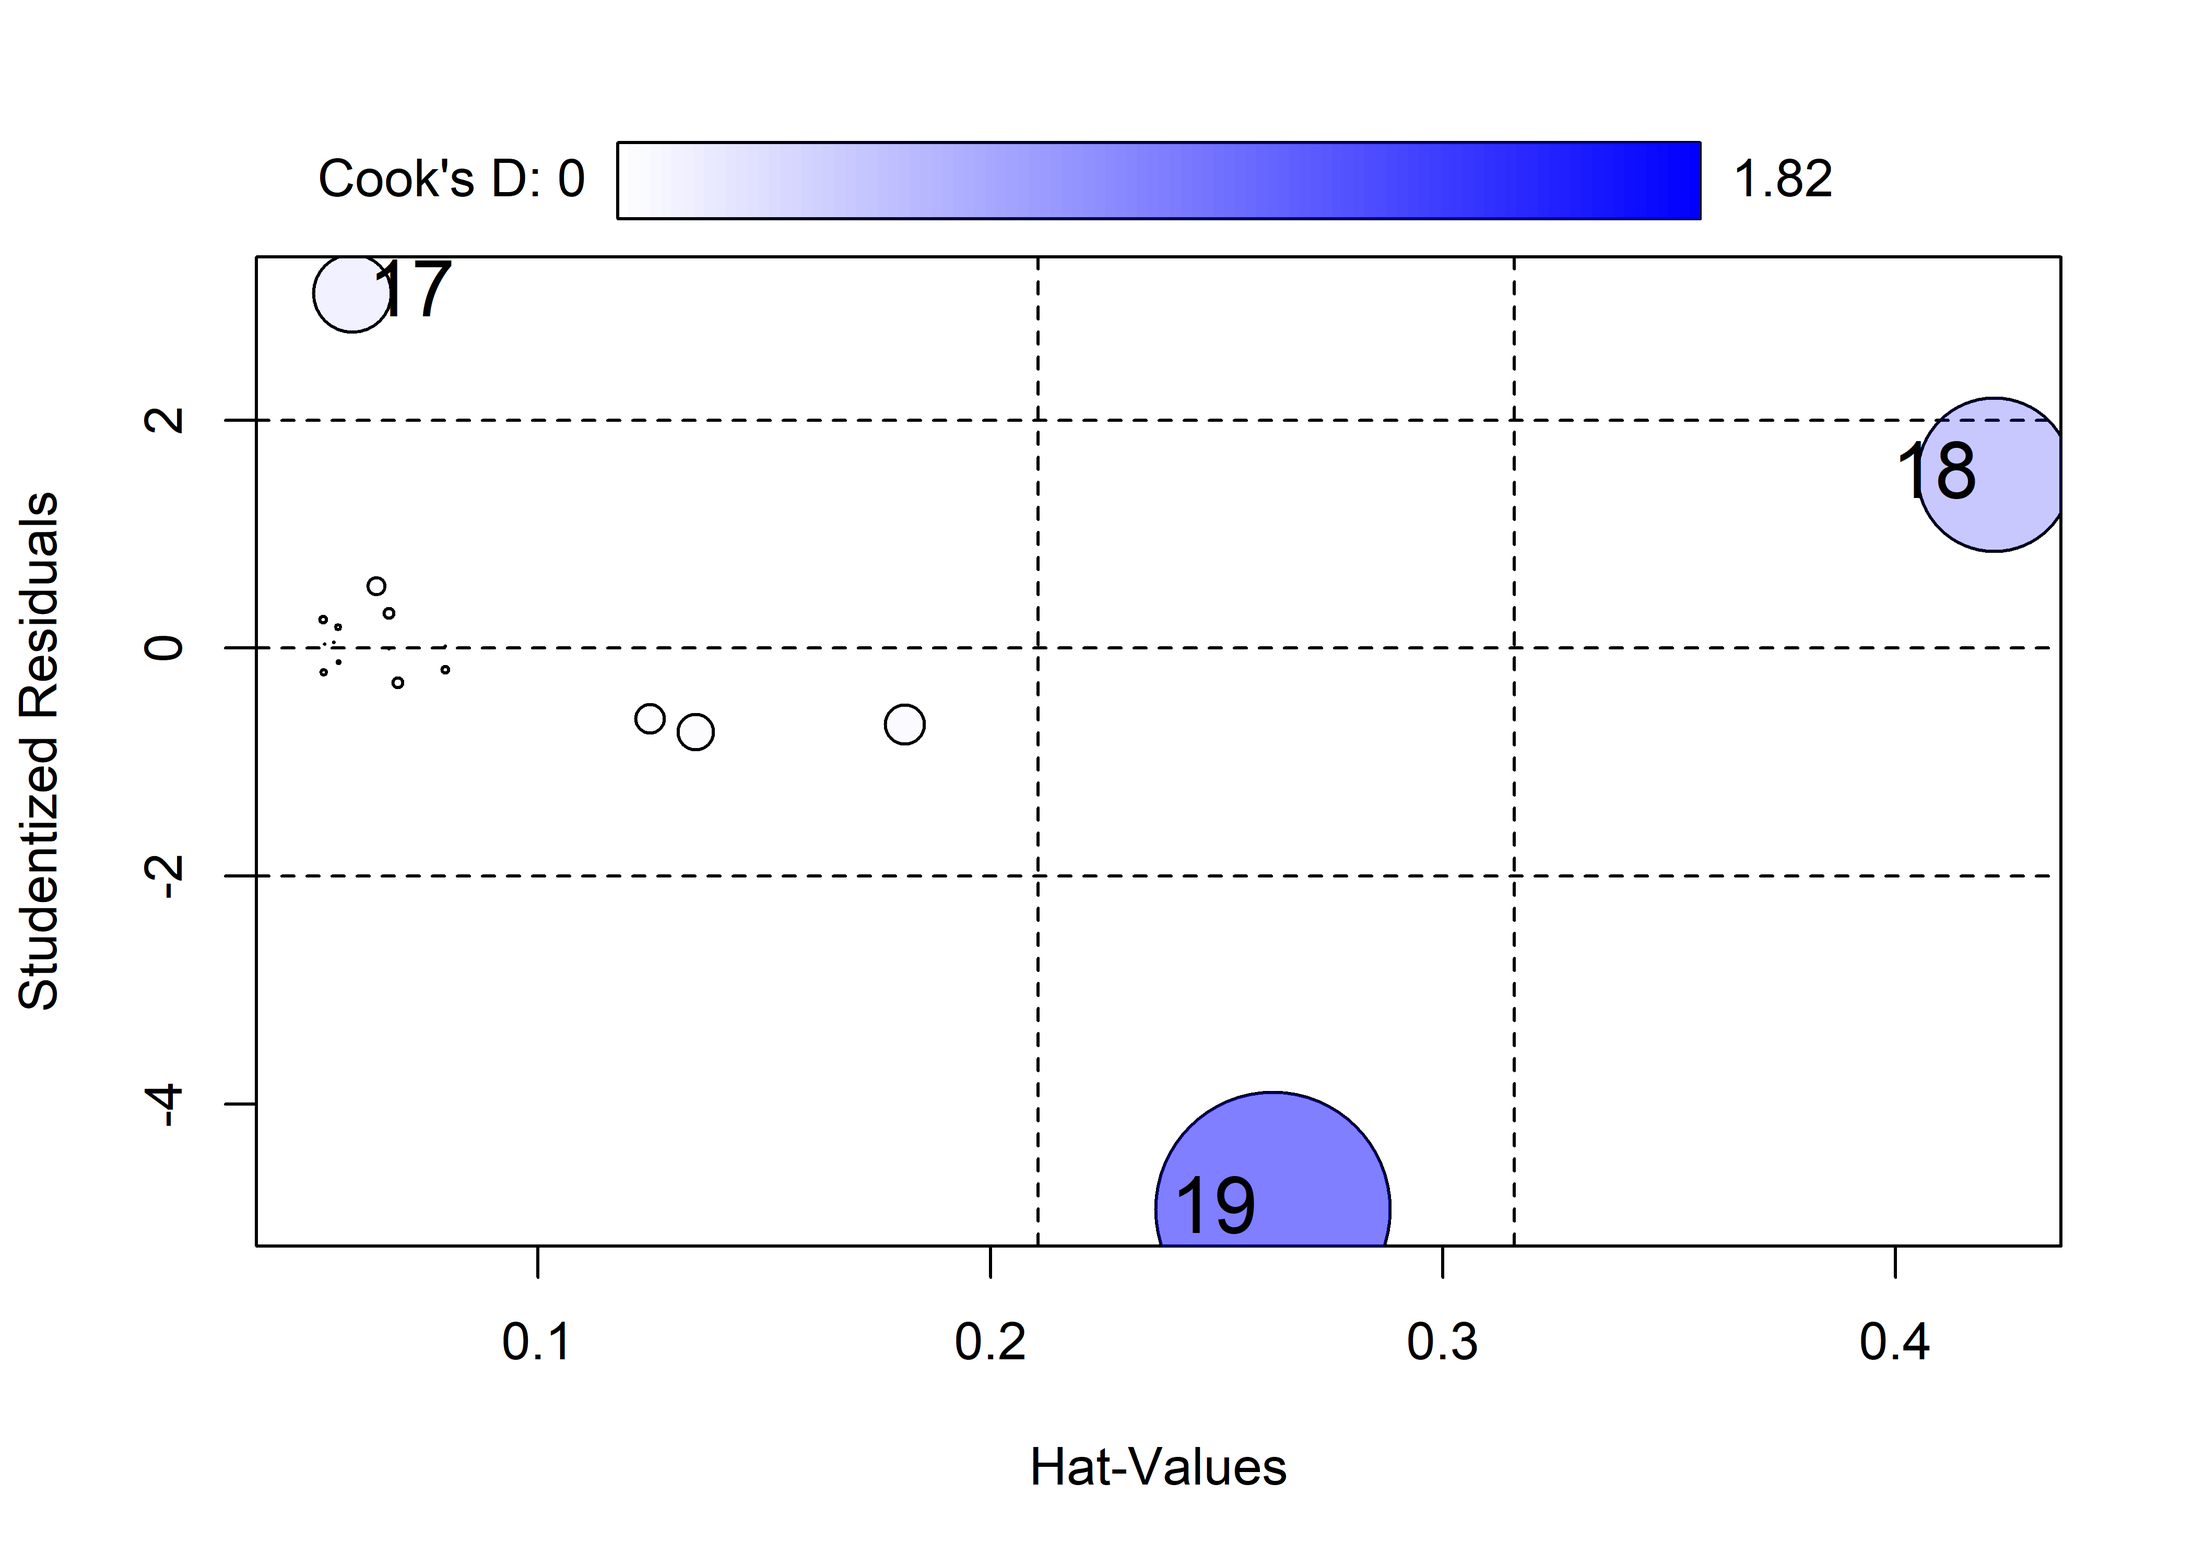
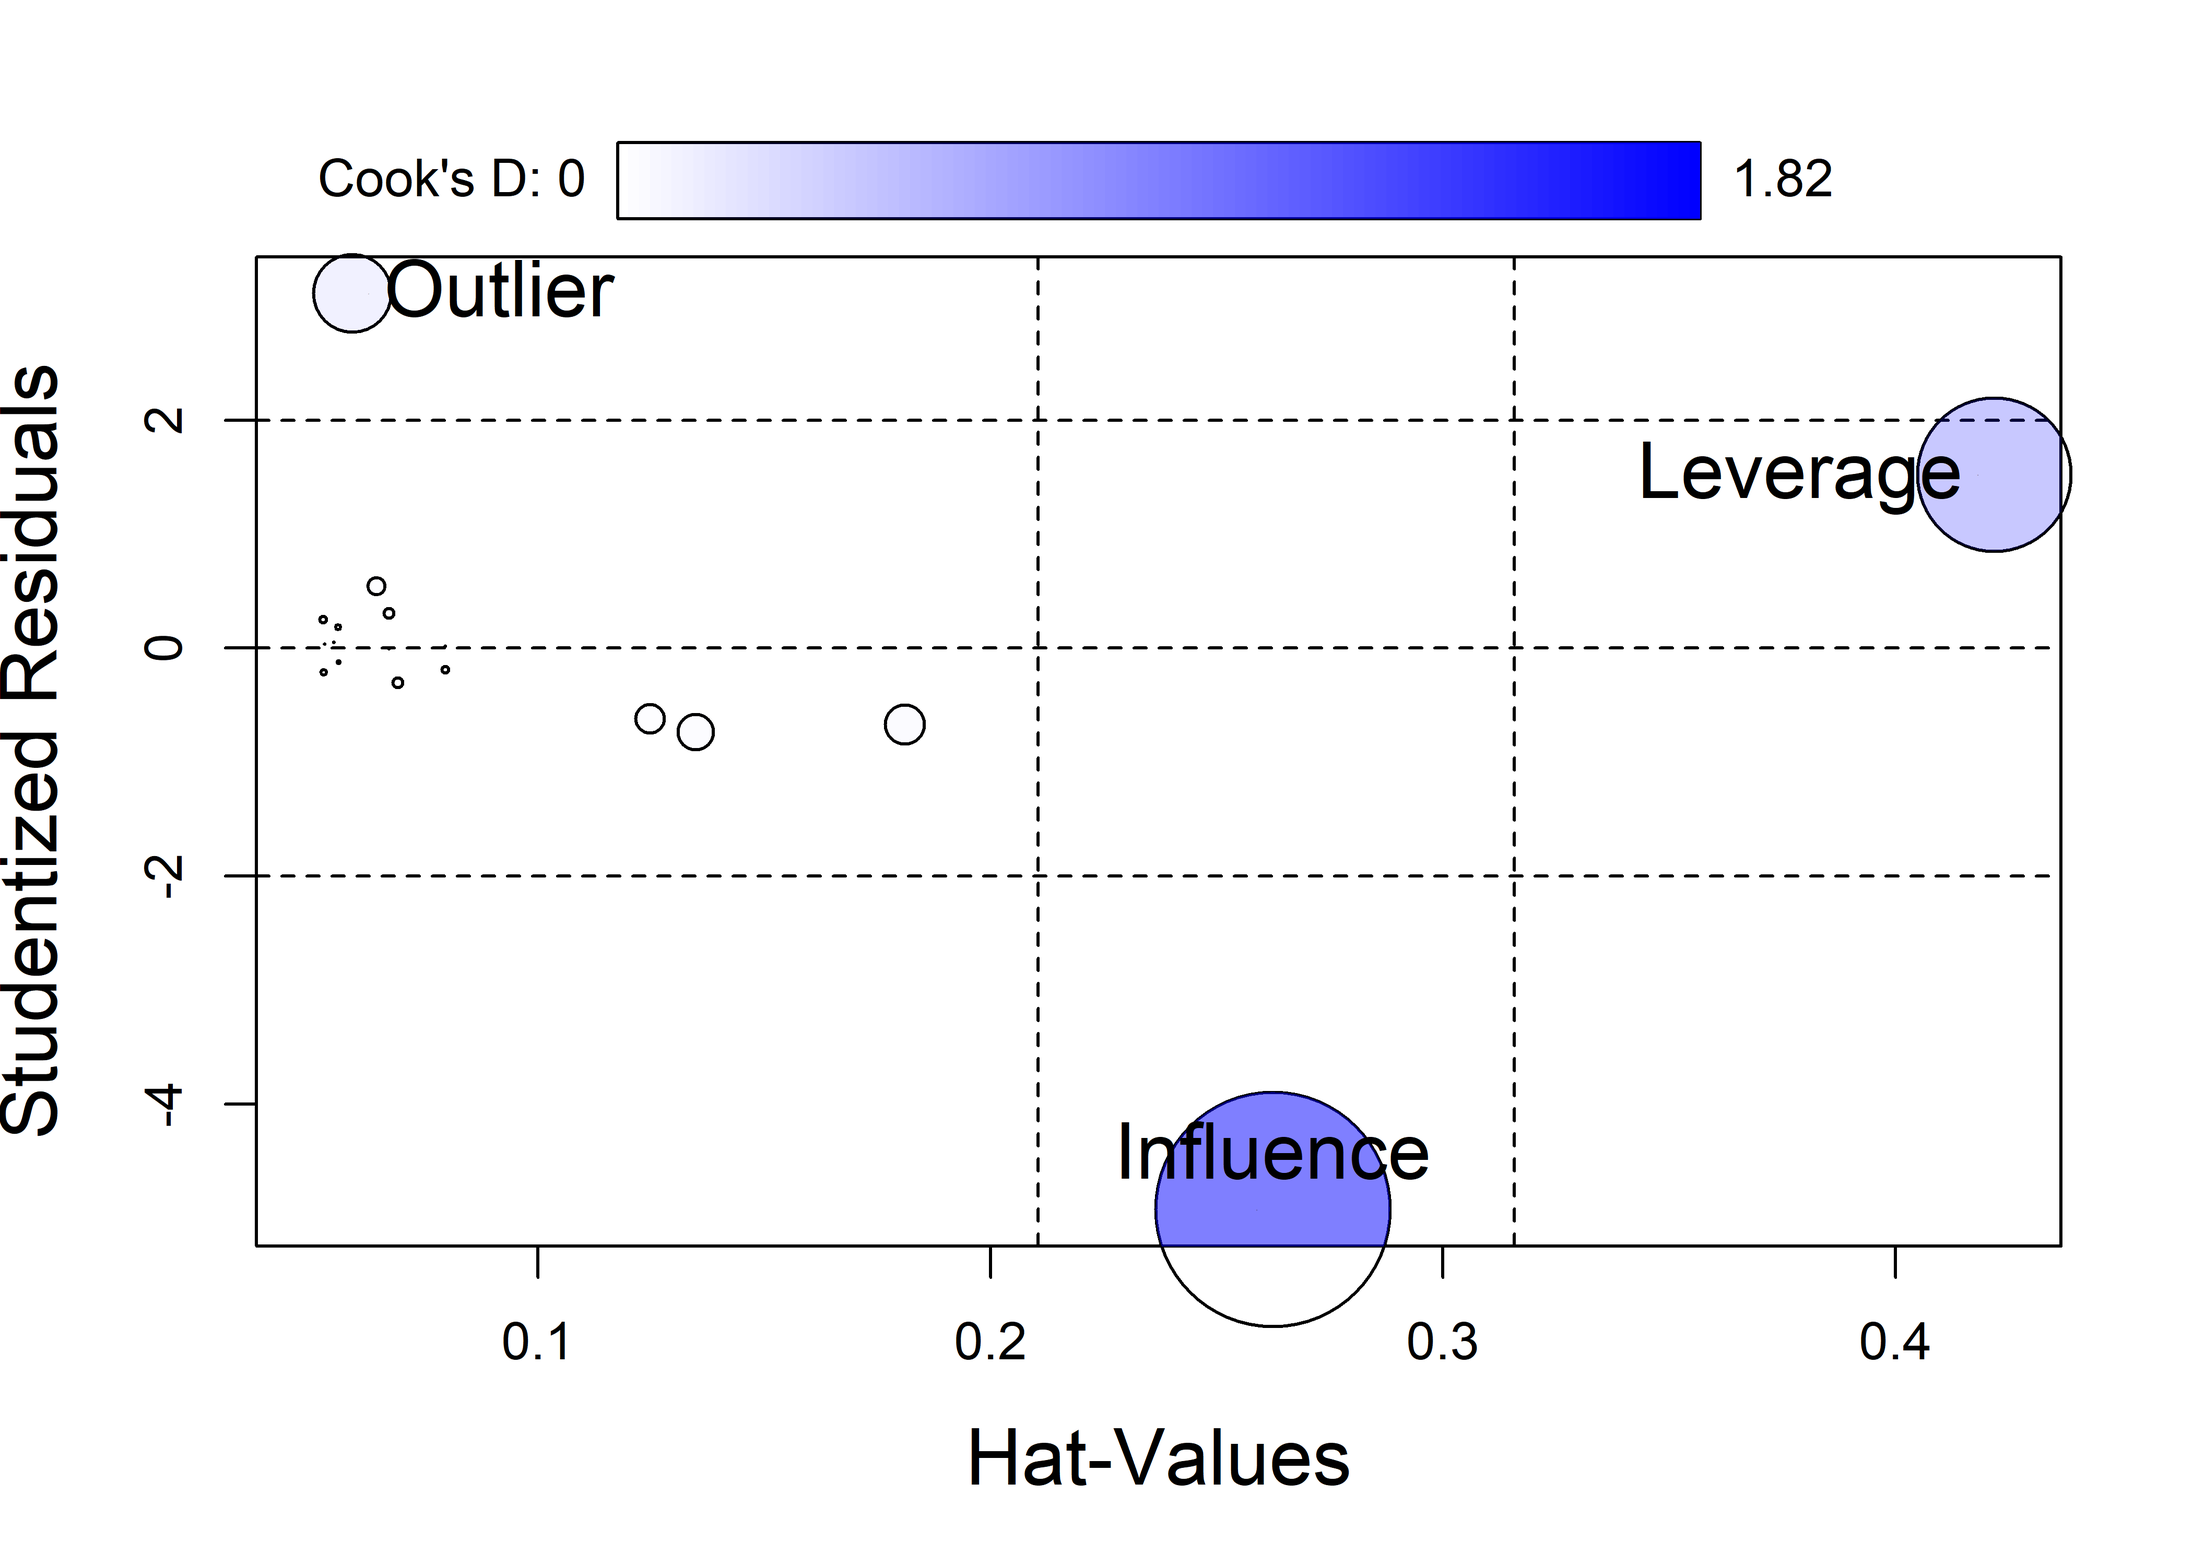
Leverage, influence: ch06

diff --git a/docs/06-linear_models-plots.html b/docs/06-linear_models-plots.html
@@ -329,7 +329,7 @@ window.Quarto = {
   <li>
 <a href="#sec-leverage" id="toc-sec-leverage" class="nav-link" data-scroll-target="#sec-leverage"><span class="header-section-number">6.6</span> Outliers, leverage and influence</a>
   <ul class="collapse">
-<li><a href="#sec:lev-inf-quartet" id="toc-sec:lev-inf-quartet" class="nav-link" data-scroll-target="#sec\:lev-inf-quartet"><span class="header-section-number">6.6.1</span> The leverage-influence quartet</a></li>
+<li><a href="#sec-lev-inf-quartet" id="toc-sec-lev-inf-quartet" class="nav-link" data-scroll-target="#sec-lev-inf-quartet"><span class="header-section-number">6.6.1</span> The leverage-influence quartet</a></li>
   <li><a href="#measuring-leverage" id="toc-measuring-leverage" class="nav-link" data-scroll-target="#measuring-leverage"><span class="header-section-number">6.6.2</span> Measuring leverage</a></li>
   <li><a href="#outliers-measuring-residuals" id="toc-outliers-measuring-residuals" class="nav-link" data-scroll-target="#outliers-measuring-residuals"><span class="header-section-number">6.6.3</span> Outliers: Measuring residuals</a></li>
   <li><a href="#measuring-influence" id="toc-measuring-influence" class="nav-link" data-scroll-target="#measuring-influence"><span class="header-section-number">6.6.4</span> Measuring influence</a></li>
@@ -1790,7 +1790,7 @@ Figure&nbsp;6.20: Predictor effect plot for income, plotted on a log scale.
 <p><span class="math display">\[
 \text{Influence}_{\text{coefficients}} \;=\; X_\text{leverage} \;\times\; Y_\text{residual}
 \]</span> As described below, leverage is proportional to the squared distance <span class="math inline">\((x_i - \bar{x})^2\)</span> of an observation <span class="math inline">\(x_i\)</span> from its mean in simple regression and to the squared Mahalanobis distance in the general case. The <span class="math inline">\(Y_\text{residual}\)</span> is best measured by a <em>studentized</em> residual, obtained by omitting each case <span class="math inline">\(i\)</span> in turn and calculating its residual from the coefficients obtained from the remaining cases.</p>
-<section id="sec:lev-inf-quartet" class="level3" data-number="6.6.1"><h3 data-number="6.6.1" class="anchored" data-anchor-id="sec:lev-inf-quartet">
+<section id="sec-lev-inf-quartet" class="level3" data-number="6.6.1"><h3 data-number="6.6.1" class="anchored" data-anchor-id="sec-lev-inf-quartet">
 <span class="header-section-number">6.6.1</span> The leverage-influence quartet</h3>
 <p>These ideas can be illustrated in the “leverage-influence quartet” by considering a standard simple linear regression for a sample and then adding one additional point reflecting the three situations described above. Below, I generate a sample of <span class="math inline">\(N = 15\)</span> points with <span class="math inline">\(x\)</span> uniformly distributed between (40, 60) and <span class="math inline">\(y \sim 10 + 0.75 x + \mathcal{N}(0, 1.25^2)\)</span>, duplicated four times.</p>
 <div class="cell" data-layout-align="center">
@@ -2001,17 +2001,37 @@ In practice for classical linear models, it is unnecessary to actually re-fit th
    &amp; = &amp; e^\star_{(-i)} \times \sqrt{\frac{h_i}{1-h_i}} \;\; .
 \end{eqnarray*}\]</span></p>
 <p>The first equation gives the signed difference in fitted values in units of the standard deviation of that difference weighted by leverage; the second version <span class="citation" data-cites="Belsley-etal:80">(<a href="90-references.html#ref-Belsley-etal:80" role="doc-biblioref">Belsley et al., 1980</a>)</span> represents that as a product of residual and leverage. A rule of thumb is that an observation is deemed to be influential if <span class="math inline">\(| \text{DFFITS}_i | &gt; 2 \sqrt{(p+1) / n}\)</span>.</p>
-<p>Influence can also be assessed in terms of the change in the estimated coefficients <span class="math inline">\(\mathbf{b} = \widehat{\mathbf{\beta}}\)</span> versus their values <span class="math inline">\(\mathbf{b}_{(-i)}\)</span> when case <span class="math inline">\(i\)</span> is removed. Cook’s distance, <span class="math inline">\(D_i\)</span>, summarizes the size of the difference as a weighted sum of squares of <span class="math inline">\(\mathbf{b} - \mathbf{b}_{(-i)}\)</span> <span class="citation" data-cites="Cook:77">(<a href="90-references.html#ref-Cook:77" role="doc-biblioref">Cook, 1977</a>)</span>.</p>
+<p>Influence can also be assessed in terms of the change in the estimated coefficients <span class="math inline">\(\mathbf{b} = \widehat{\mathbf{\beta}}\)</span> versus their values <span class="math inline">\(\mathbf{b}_{(-i)}\)</span> when case <span class="math inline">\(i\)</span> is removed. Cook’s distance, <span class="math inline">\(D_i\)</span>, summarizes the size of the difference as a weighted sum of squares of <span class="math inline">\(\mathbf{d} =\mathbf{b} - \mathbf{b}_{(-i)}\)</span> <span class="citation" data-cites="Cook:77">(<a href="90-references.html#ref-Cook:77" role="doc-biblioref">Cook, 1977</a>)</span>.</p>
+<p><span class="math display">\[
+D_i = \mathbf{d}^\mathsf{T}\, (\mathbf{X}^\mathsf{T}\mathbf{X}) \,\mathbf{d} / (p+1) \hat{\sigma}^2
+\]</span> This can be re-expressed in terms of the components of residual and leverage</p>
+<p><span class="math display">\[
+D_i = \frac{e^\star_{(-i)}}{p+1} \times \frac{h_i}{(1- h_i)^2}
+\]</span></p>
+<p>Cook’s distance is in the metric of an <span class="math inline">\(F\)</span> distribution with $p% and <span class="math inline">\(n − p\)</span> degrees of freedom, so values $D_i &gt; 4/n are considered large.</p>
 </section><section id="influence-plots" class="level3" data-number="6.6.5"><h3 data-number="6.6.5" class="anchored" data-anchor-id="influence-plots">
 <span class="header-section-number">6.6.5</span> Influence plots</h3>
-<p>Two kinds of plots are used to … * index plot of Cook’s D * influencePlot</p>
-<p>Back to the example of <span class="citation" data-cites="sec:lev-inf-quartet">(<a href="90-references.html#ref-sec:lev-inf-quartet" role="doc-biblioref"><strong>sec:lev-inf-quartet?</strong></a>)</span>:</p>
+<p>The most common plot to detect influence is a plot of the studentized residuals versus hat values, as shown in <a href="#fig-levdemo-infl" class="quarto-xref">Figure&nbsp;<span>6.25</span></a> for the demonstration dataset constructed in <a href="#sec-lev-inf-quartet" class="quarto-xref"><span>Section 6.6.1</span></a>. In this plot, notable cutoffs for hatvalues at <span class="math inline">\(2 \bar{h}\)</span> and <span class="math inline">\(3 \bar{h}\)</span> are shown by dashed vertical lines and horizontal cutoffs for studentize residuals are shown at values of <span class="math inline">\(\pm 2\)</span>.</p>
+<p>The demonstration data of <a href="#sec-lev-inf-quartet" class="quarto-xref"><span>Section 6.6.1</span></a> has four copies of the same <span class="math inline">\((x, y)\)</span> data, three of which have an unusual observation. The influence plot in <a href="#fig-levdemo-infl" class="quarto-xref">Figure&nbsp;<span>6.25</span></a> for the unique observations, including the three unusual cases.</p>
 <div class="cell" data-layout-align="center">
 <div class="sourceCode" id="cb54" data-source-line-numbers="nil" data-code-line-numbers="nil"><pre class="downlit sourceCode r code-with-copy"><code class="sourceCode R"><span><span class="va">once</span> <span class="op">&lt;-</span> <span class="va">both</span><span class="op">[</span><span class="fu"><a href="https://rdrr.io/r/base/c.html">c</a></span><span class="op">(</span><span class="fl">1</span><span class="op">:</span><span class="fl">16</span>, <span class="fl">62</span>, <span class="fl">63</span>, <span class="fl">64</span><span class="op">)</span>,<span class="op">]</span></span>
 <span><span class="va">once.mod</span> <span class="op">&lt;-</span> <span class="fu"><a href="https://rdrr.io/r/stats/lm.html">lm</a></span><span class="op">(</span><span class="va">y</span> <span class="op">~</span> <span class="va">x</span>, data<span class="op">=</span><span class="va">once</span><span class="op">)</span></span>
-<span><span class="va">res</span> <span class="op">&lt;-</span> <span class="fu"><a href="https://rdrr.io/pkg/car/man/influencePlot.html">influencePlot</a></span><span class="op">(</span><span class="va">once.mod</span>, </span>
-<span>                     id <span class="op">=</span> <span class="fu"><a href="https://rdrr.io/r/base/list.html">list</a></span><span class="op">(</span>cex <span class="op">=</span> <span class="fl">1.5</span><span class="op">)</span>,</span>
-<span>                     fill.alpha <span class="op">=</span> <span class="fl">0.5</span><span class="op">)</span></span></code><button title="Copy to Clipboard" class="code-copy-button"><i class="bi"></i></button></pre></div>
+<span><span class="va">inf</span> <span class="op">&lt;-</span> <span class="fu"><a href="https://rdrr.io/pkg/car/man/influencePlot.html">influencePlot</a></span><span class="op">(</span><span class="va">once.mod</span>, </span>
+<span>                     id <span class="op">=</span> <span class="fu"><a href="https://rdrr.io/r/base/list.html">list</a></span><span class="op">(</span>cex <span class="op">=</span> <span class="fl">0.01</span><span class="op">)</span>,</span>
+<span>                     fill.alpha <span class="op">=</span> <span class="fl">0.5</span>,</span>
+<span>                     cex.lab <span class="op">=</span> <span class="fl">1.5</span>, xpd <span class="op">=</span> <span class="cn">TRUE</span><span class="op">)</span></span>
+<span><span class="co"># custom labels</span></span>
+<span><span class="va">unusual</span> <span class="op">&lt;-</span> <span class="fu"><a href="https://dplyr.tidyverse.org/reference/bind_cols.html">bind_cols</a></span><span class="op">(</span><span class="va">once</span><span class="op">[</span><span class="fl">17</span><span class="op">:</span><span class="fl">19</span>,<span class="op">]</span>, <span class="va">inf</span><span class="op">)</span> <span class="op">|&gt;</span> <span class="fu"><a href="https://rdrr.io/r/base/print.html">print</a></span><span class="op">(</span>digits<span class="op">=</span><span class="fl">3</span><span class="op">)</span></span>
+<span><span class="co">#&gt; # A tibble: 3 × 7</span></span>
+<span><span class="co">#&gt;   case            x     y id    StudRes    Hat CookD</span></span>
+<span><span class="co">#&gt; * &lt;fct&gt;       &lt;dbl&gt; &lt;dbl&gt; &lt;chr&gt;   &lt;dbl&gt;  &lt;dbl&gt; &lt;dbl&gt;</span></span>
+<span><span class="co">#&gt; 1 2 Outlier      52    65 O        3.11 0.0591 0.201</span></span>
+<span><span class="co">#&gt; 2 3 Leverage     75    65 L        1.52 0.422  0.784</span></span>
+<span><span class="co">#&gt; 3 4 Influence    70    40 OL      -4.93 0.262  1.82</span></span>
+<span><span class="fu"><a href="https://rdrr.io/r/base/with.html">with</a></span><span class="op">(</span><span class="va">unusual</span>, <span class="op">{</span></span>
+<span>  <span class="va">casetype</span> <span class="op">&lt;-</span> <span class="fu"><a href="https://rdrr.io/r/base/grep.html">gsub</a></span><span class="op">(</span><span class="st">"\\d "</span>, <span class="st">""</span>, <span class="va">case</span><span class="op">)</span></span>
+<span>  <span class="fu"><a href="https://rdrr.io/r/graphics/text.html">text</a></span><span class="op">(</span><span class="va">Hat</span>, <span class="va">StudRes</span>, label <span class="op">=</span> <span class="va">casetype</span>, pos <span class="op">=</span> <span class="fu"><a href="https://rdrr.io/r/base/c.html">c</a></span><span class="op">(</span><span class="fl">4</span>, <span class="fl">2</span>, <span class="fl">3</span><span class="op">)</span>, cex<span class="op">=</span><span class="fl">1.5</span><span class="op">)</span></span>
+<span><span class="op">}</span><span class="op">)</span></span></code><button title="Copy to Clipboard" class="code-copy-button"><i class="bi"></i></button></pre></div>
 <div class="cell-output-display">
 <div id="fig-levdemo-infl" class="quarto-float quarto-figure quarto-figure-center anchored" data-fig-align="center">
 <figure class="quarto-float quarto-float-fig figure"><div aria-describedby="fig-levdemo-infl-caption-0ceaefa1-69ba-4598-a22c-09a6ac19f8ca">

diff --git a/docs/03-multivariate_plots.html b/docs/03-multivariate_plots.html
@@ -1782,7 +1782,7 @@ Figure&nbsp;3.34: <strong>Projection example</strong>: (a) The 8 points in <stro
 <span><span class="fu"><a href="https://rdrr.io/r/graphics/lines.html">lines</a></span><span class="op">(</span><span class="va">axes.x</span>, <span class="va">axes.y</span>, col <span class="op">=</span> <span class="st">"grey"</span><span class="op">)</span></span>
 <span><span class="fu"><a href="http://friendly.github.io/matlib/reference/vectors.html">vectors</a></span><span class="op">(</span><span class="va">P2</span>, labels <span class="op">=</span> <span class="va">labs</span>, cex.lab <span class="op">=</span> <span class="fl">1.8</span>, lwd <span class="op">=</span> <span class="fl">3</span><span class="op">)</span></span>
 <span><span class="fu"><a href="https://rdrr.io/r/graphics/par.html">par</a></span><span class="op">(</span><span class="va">op</span><span class="op">)</span></span></code><button title="Copy to Clipboard" class="code-copy-button"><i class="bi"></i></button></pre></div>
-</details><div class="cell quarto-layout-panel" data-layout-align="center" data-layout-ncol="2">
+</details><div class="cell quarto-layout-panel" data-layout-ncol="2" data-layout-align="center">
 
 </div>
 <div class="cell" data-layout-align="center">
